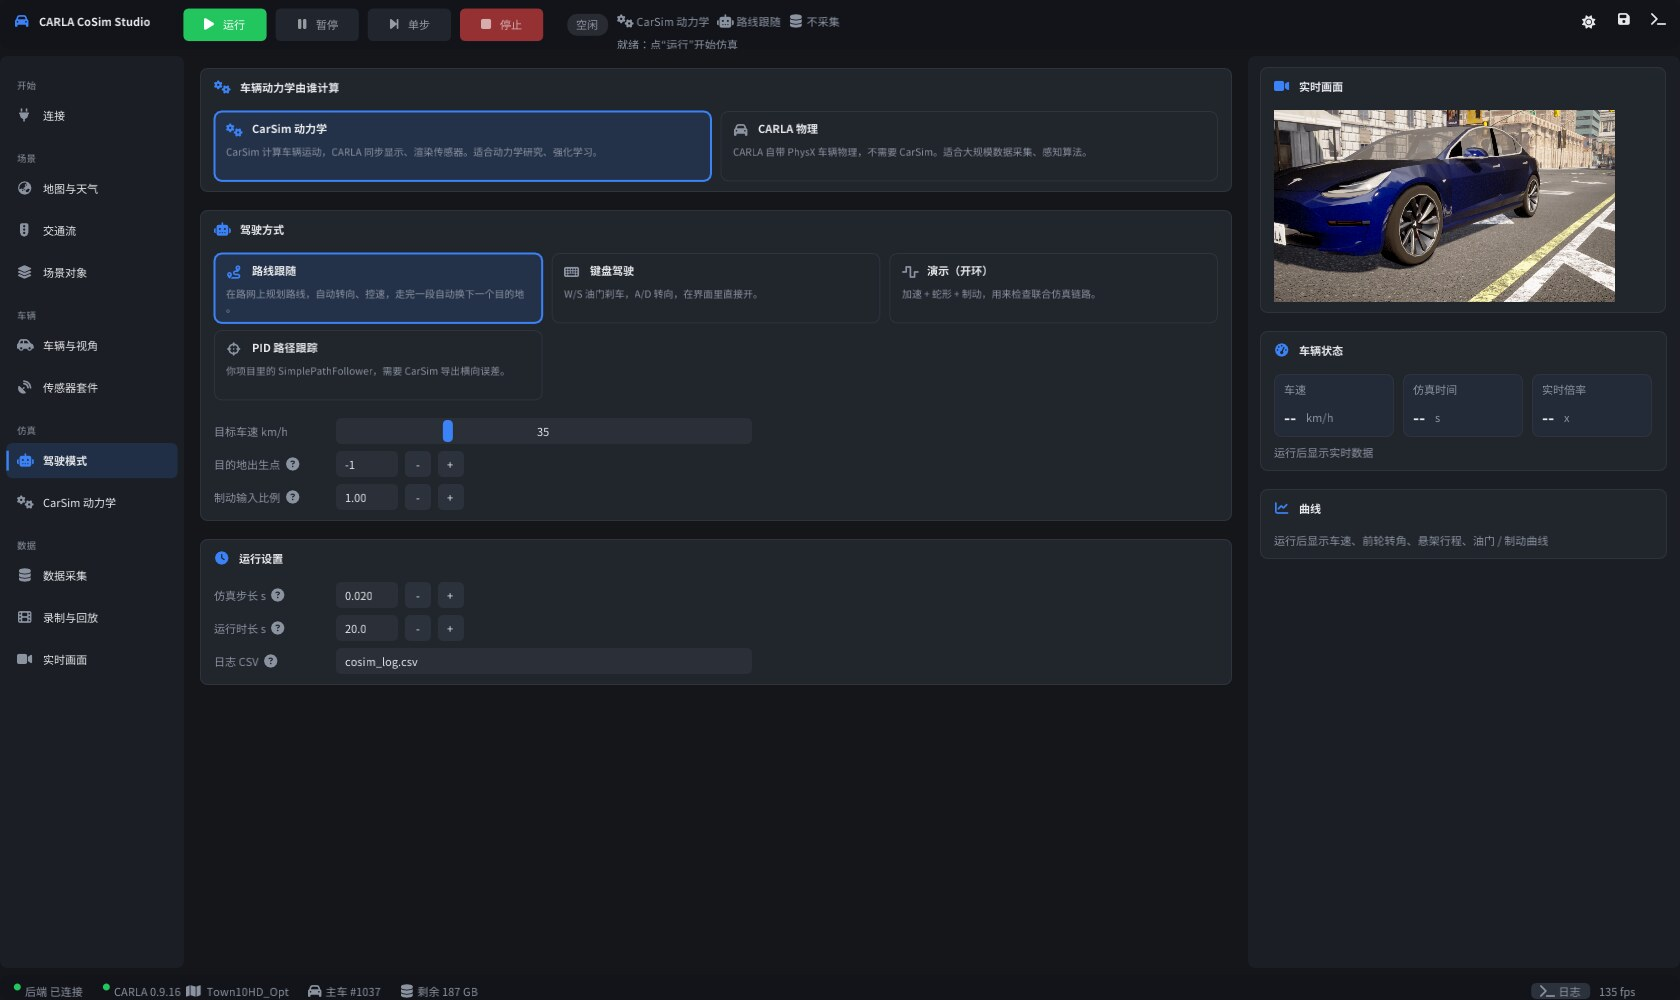
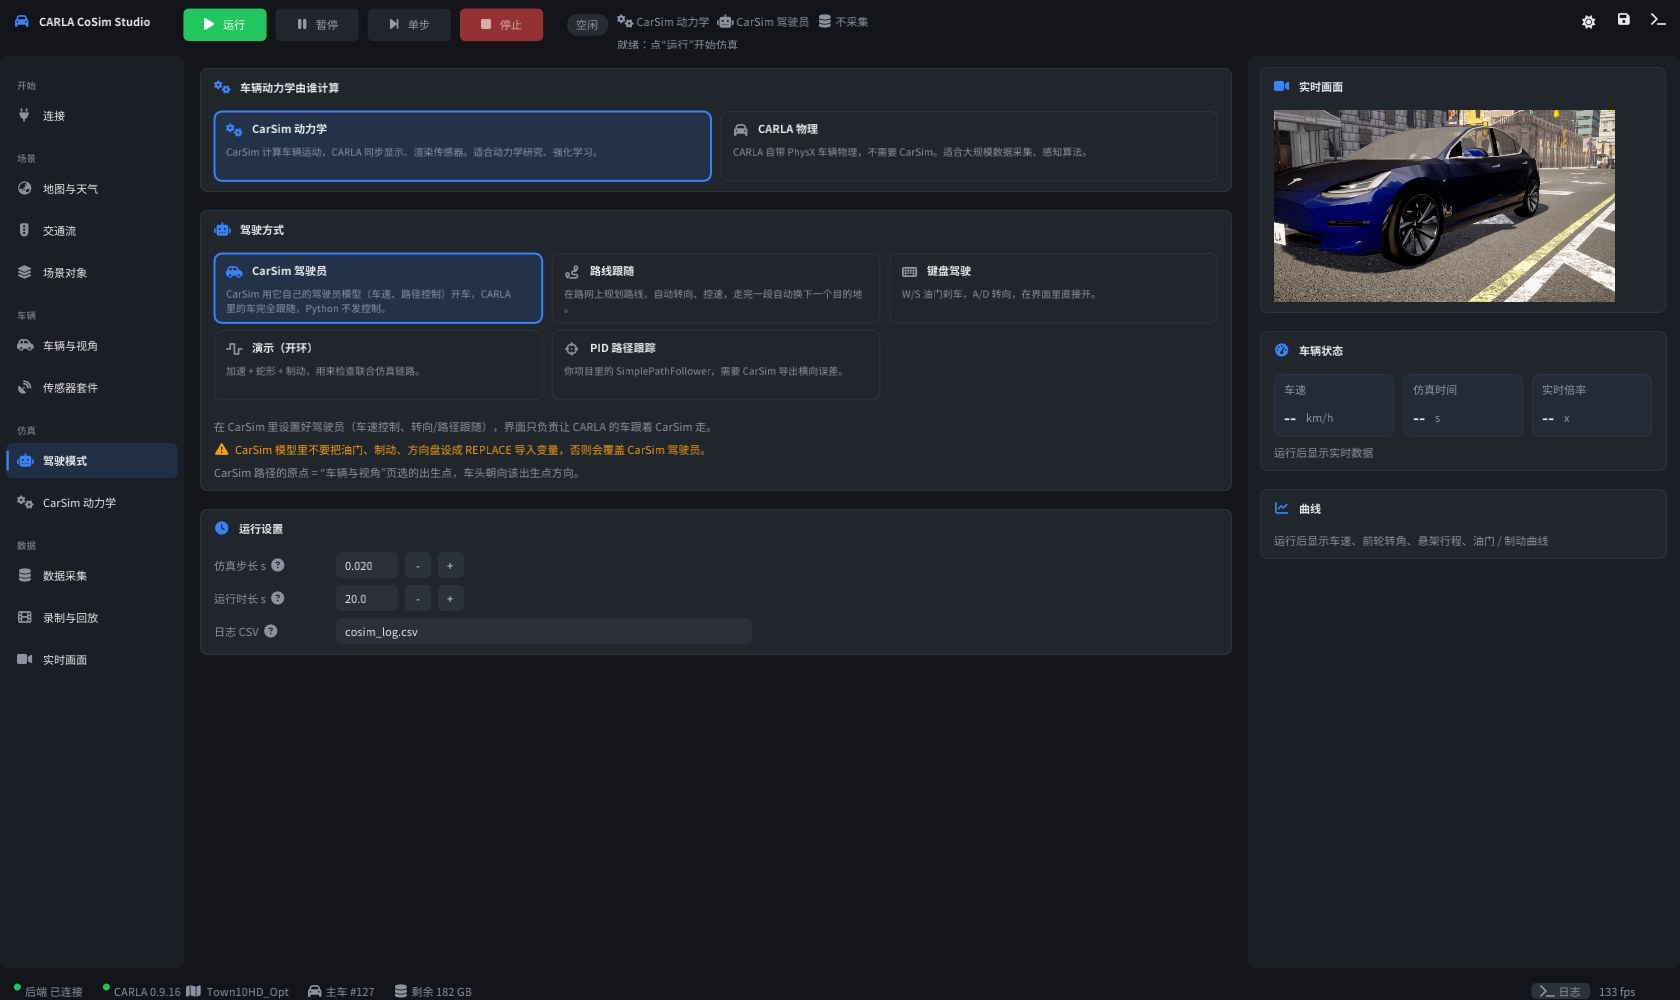
Add "CarSim driver" mode: CarSim drives with its own driver model, CARLA follows
Python writes no imports in this mode (runs without imports are allowed),
the GUI shows the inputs CarSim chose from its exports. Also fixes a stale
sensor id in test_backend after the per-run ego respawn.

diff --git a/carsim_carla_bridge/session.py b/carsim_carla_bridge/session.py
@@ -35,7 +35,30 @@ def make_env(d):
         raise ValueError("CarSim .sim file not set (carsim.sim_path)")
     sys.path.insert(0, os.path.abspath(c["repo_path"]))
     from carsim_env import CarSimEnv
-    return CarSimEnv(c["sim_path"])
+    env = CarSimEnv(c["sim_path"])
+    if d["run"]["driver"] == "carsim":
+        self_driven(env)
+    return env
+
+
+def self_driven(env):
+    """Let CarSim's own driver model (speed / path control set up in the
+    CarSim GUI) drive: the run may have no imports at all, and Python never
+    writes the import array. Wraps the instance, python_carsim_env is untouched."""
+    read = env.solver.read_configuration
+
+    def read_configuration(path):
+        cfg = read(path)
+        if cfg is not None:
+            env.declared_imports = int(cfg.get("n_import", 0))
+            if env.declared_imports <= 0:
+                cfg["n_import"] = 1   # spare slot for CarSimEnv's buffers; VS reads no imports
+        return cfg
+
+    write = env._write_action
+    env.solver.read_configuration = read_configuration
+    env._write_action = lambda action: None if action is None else write(action)
+    return env
 
 
 def make_driver(d, ex):
@@ -96,7 +119,9 @@ class CoSimSession:
         drv = d["run"]["driver"]
         self.command_driver = None
         self._speed = 0.0
-        if drv in ("route", "manual"):
+        if drv == "carsim":
+            self.driver = lambda obs, t: None     # CarSim drives itself
+        elif drv in ("route", "manual"):
             dr = d["drive"]
             if drv == "route":
                 dest = int(dr.get("destination_index", -1))
@@ -130,6 +155,7 @@ class CoSimSession:
                                 "carla_x", "carla_y", "carla_yaw", "steer_fl", "steer_fr", "speed_carla"])
         self._wall0 = time.perf_counter()
         return {"external_api": self.sync.external_api,
+                "declared_imports": getattr(self.env, "declared_imports", None),
                 "reference_point": [round(float(x), 3) for x in self.sync.ref_local],
                 "t_step": t_step, "inner_steps": self.inner, "clock_warning": self.clock_warning}
 
@@ -155,6 +181,8 @@ class CoSimSession:
         env, frame_dt = self.env, self.d["sync"]["frame_dt"]
         action = self.driver(self.obs, env.t_current)
         self.obs, _, done, info = env.control_step(action, self.inner)
+        if action is None:
+            action = self._carsim_inputs()
         if info.get("error"):
             raise RuntimeError("CarSim error: %s" % info["error"])
         state = self.sync.sync(self.obs, env.t_current, frame_dt)
@@ -193,6 +221,14 @@ class CoSimSession:
             "dynamics": "CarSim",
             "done": self.done,
         }
+
+    def _carsim_inputs(self):
+        """Driver inputs CarSim chose itself, read back from the exports."""
+        ex = self.sync.ex
+        scale = float(self.d["drive"].get("brake_scale", 1.0)) or 1.0
+        return [float(ex.raw(self.obs, "Throttle")) if ex.has("Throttle") else 0.0,
+                float(ex.raw(self.obs, "Pbk_Con")) / scale if ex.has("Pbk_Con") else 0.0,
+                float(ex.angle(self.obs, "Steer_SW")) if ex.has("Steer_SW") else 0.0]
 
     def carsim_state(self):
         """CarSim exports of the current step, for the data collector."""

diff --git a/carsim_carla_bridge/tests/test_self_driven.py b/carsim_carla_bridge/tests/test_self_driven.py
@@ -1,0 +1,65 @@
+"""Offline check of the "CarSim driver" mode wrapper (no CarSim, no CARLA).
+
+    python tests/test_self_driven.py
+"""
+import os
+import sys
+
+HERE = os.path.dirname(os.path.abspath(__file__))
+sys.path.insert(0, os.path.dirname(HERE))
+sys.path.insert(0, os.path.join(os.path.dirname(HERE), "..", "python_carsim_env"))
+
+
+class FakeSolver:
+    """VS solver whose run declares no imports (CarSim drives itself)."""
+    def __init__(self, n_import):
+        self.n_import, self.imports_seen = n_import, []
+
+    def read_configuration(self, path):
+        return {"n_import": self.n_import, "n_export": 2, "t_start": 0.0, "t_stop": 1.0, "t_step": 0.001}
+
+    def copy_export_vars_into(self, arr, n, return_list=False):
+        pass
+
+    def integrate_io_inplace(self, t, imp, exp, n):
+        self.imports_seen.append(list(imp))
+        return 0
+
+    def terminate_run(self, t):
+        pass
+
+
+def make(n_import):
+    from carsim_env import CarSimEnv
+    from session import self_driven
+    env = CarSimEnv.__new__(CarSimEnv)      # skip DLL loading
+    env.sim_path, env.solver = "x.sim", FakeSolver(n_import)
+    env.initialized, env.done, env.import_vars, env.export_vars = False, True, [], []
+    return self_driven(env)
+
+
+def main():
+    ok = True
+    env = make(0)
+    env.reset()                             # stock CarSimEnv refuses n_import == 0
+    env.control_step(None, 5)
+    ok &= env.declared_imports == 0 and len(env.solver.imports_seen) == 5
+    print(("PASS" if ok else "FAIL"), "run without imports steps, declared_imports =", env.declared_imports)
+
+    env = make(3)
+    env.reset()
+    env.import_np[:] = [7.0, 8.0, 9.0]      # whatever is there is left alone
+    env.control_step(None, 1)
+    good = env.solver.imports_seen[-1] == [7.0, 8.0, 9.0] and env.declared_imports == 3
+    print(("PASS" if good else "FAIL"), "None action never writes the imports")
+    ok &= good
+    env.control_step([0.5, 0.0, 10.0], 1)
+    good = env.solver.imports_seen[-1] == [0.5, 0.0, 10.0]
+    print(("PASS" if good else "FAIL"), "explicit actions still written")
+    ok &= good
+    print("ALL SELF-DRIVEN TESTS PASSED" if ok else "SOME TESTS FAILED")
+    sys.exit(0 if ok else 1)
+
+
+if __name__ == "__main__":
+    main()

diff --git a/cosim_gui/src/panels.cpp b/cosim_gui/src/panels.cpp
@@ -455,6 +455,7 @@ void App::DrawPanelDrive() {
   ui::BeginCard(ICON_FA_ROBOT, "驾驶方式");
   struct D { const char* id; const char* icon; const char* title; const char* desc; bool cosim, carla; };
   static const D kD[] = {
+      {"carsim", ICON_FA_CAR_SIDE, "CarSim 驾驶员", "CarSim 用它自己的驾驶员模型（车速、路径控制）开车，CARLA 里的车完全跟随，Python 不发控制。", true, false},
       {"route", ICON_FA_ROUTE, "路线跟随", "在路网上规划路线，自动转向、控速，走完一段自动换下一个目的地。", true, true},
       {"autopilot", ICON_FA_TRAFFIC_LIGHT, "CARLA 自动驾驶", "交通管理器驾驶：遵守信号灯、跟车、变道。", false, true},
       {"manual", ICON_FA_KEYBOARD, "键盘驾驶", "W/S 油门刹车，A/D 转向，在界面里直接开。", true, true},
@@ -502,7 +503,12 @@ void App::DrawPanelDrive() {
     ui::Row("目标车速 km/h", nullptr, fs * 8);
     EditDouble(pid, "target_speed", 5, "%.0f", 0, 300);
   }
-  if (cosim && cur != "demo" && cur != "pid") {
+  if (cosim && cur == "carsim") {
+    ImGui::TextColored(p.text_dim, "在 CarSim 里设置好驾驶员（车速控制、转向/路径跟随），界面只负责让 CARLA 的车跟着 CarSim 走。");
+    ImGui::TextColored(p.warning, ICON_FA_TRIANGLE_EXCLAMATION "  CarSim 模型里不要把油门、制动、方向盘设成 REPLACE 导入变量，否则会覆盖 CarSim 驾驶员。");
+    ImGui::TextColored(p.text_dim, "CarSim 路径的原点 = “车辆与视角”页选的出生点，车头朝向该出生点方向。");
+  }
+  if (cosim && cur != "demo" && cur != "pid" && cur != "carsim") {
     float b = dr.value("brake_scale", 1.0f);
     ui::Row("制动输入比例", "0..1 的制动指令乘以这个系数再送给 CarSim（例如 CarSim 用制动压力 MPa 时设为 10）", fs * 8);
     if (ImGui::InputFloat("##bscale", &b, 0.5f, 1.0f, "%.2f")) dr["brake_scale"] = std::max(0.0f, b);

diff --git a/carsim_carla_bridge/tests/test_features.py b/carsim_carla_bridge/tests/test_features.py
@@ -98,6 +98,28 @@ def main():
         check("CarSim route follower drives", moved > 25 and tels[-1]["speed_kmh"] > 15,
               "moved %.0f m, %.1f km/h, max wheel steer %.1f°" % (moved, tels[-1]["speed_kmh"], steer_used))
 
+        # ---- CarSim's own driver model drives, CARLA follows -------------------
+        r = json.loads(json.dumps(cfg))
+        r["carsim"]["mock"] = True
+        r["drive"].update({"dynamics": "cosim"})
+        r["run"]["driver"] = "carsim"
+        r["sync"]["duration"] = 8.0
+        r["sync"]["frame_dt"] = 0.02
+        c.events.clear()
+        c.call("cosim_start", config=r)
+        tels = []
+        while True:
+            e = c.wait_event(lambda e: e.get("event") in ("telemetry", "cosim_state"), 180)
+            c.events.remove(e)
+            if e["event"] == "cosim_state" and e["state"] in ("finished", "error"):
+                break
+            if e["event"] == "telemetry":
+                tels.append(e["data"])
+        moved = math.dist(tels[0]["location"][:2], tels[-1]["location"][:2])
+        check("CarSim driver mode: CARLA car follows CarSim", moved > 20 and max(t["action"][0] for t in tels) > 0.1
+              and max(abs(t["action"][2]) for t in tels) > 10,
+              "moved %.0f m, %.1f km/h, inputs read back from CarSim exports" % (moved, tels[-1]["speed_kmh"]))
+
         # ---- manual keyboard control in CARLA physics --------------------------
         r = json.loads(json.dumps(cfg))
         r["drive"].update({"dynamics": "carla", "carla_driver": "manual"})

diff --git a/carsim_carla_bridge/backend_server.py b/carsim_carla_bridge/backend_server.py
@@ -632,6 +632,9 @@ class Backend:
             self._log("联合仿真开始：%s，参考点 %s，每帧 %d 个 CarSim 步，驾驶：%s" % (
                 "改版 CARLA 接口" if info["external_api"] else "原版兼容模式",
                 info["reference_point"], info["inner_steps"], d["run"]["driver"]))
+            if d["run"]["driver"] == "carsim" and info.get("declared_imports"):
+                self._log("CarSim 驾驶员模式：模型声明了 %d 个导入变量，Python 不写它们；若是 REPLACE 模式会一直是 0，"
+                          "会覆盖 CarSim 自己的驾驶员（车不动或不转向），请在 CarSim 里删掉导入或改成 ADD" % info["declared_imports"], "warn")
             if info["clock_warning"]:
                 self._log("frame_dt 不是 CarSim t_step 的整数倍，两边时钟会漂移", "warn")
         else:

diff --git a/carsim_carla_bridge/mock_carsim.py b/carsim_carla_bridge/mock_carsim.py
@@ -37,7 +37,16 @@ class MockCarSimEnv:
         self.done = False
         return self._exports()
 
+    def own_driver(self):
+        """Stands in for CarSim's built-in driver model (action None): hold
+        ~40 km/h and weave gently, like a CarSim procedure would."""
+        throttle = max(0.0, min(1.0, 0.1 * (40.0 / 3.6 - self.v)))
+        steer_sw = 0.0 if self.t_current < 4.0 else 45.0 * math.sin(2 * math.pi * 0.1 * (self.t_current - 4.0))
+        return [throttle, 0.0, steer_sw]
+
     def control_step(self, action, inner_steps):
+        if action is None:
+            action = self.own_driver()
         throttle, brake, steer_sw = (list(action) + [0.0, 0.0, 0.0])[:3]
         self.throttle, self.steer_sw = throttle, steer_sw
         delta = math.radians(steer_sw / self.STEER_RATIO)  # + = left (ISO)

diff --git a/carsim_carla_bridge/settings.py b/carsim_carla_bridge/settings.py
@@ -45,7 +45,7 @@ def default_dict():
                         "speed": _defaults.PID_SPEED,
                         "target_speed": _defaults.PID_TARGET_SPEED}},
         # dynamics: "cosim" = CarSim drives the car, "carla" = CARLA PhysX.
-        # driver: demo | pid (CarSim only) | route | manual | autopilot (CARLA only)
+        # driver: carsim (CarSim's own driver) | demo | pid (CarSim only) | route | manual | autopilot (CARLA only)
         "drive": {"dynamics": "cosim", "carla_driver": "route", "target_speed_kmh": 40.0,
                   "destination_index": -1, "brake_scale": 1.0,
                   "tm_speed_diff_pct": 0.0, "tm_ignore_lights": False},

diff --git a/carsim_carla_bridge/tests/test_backend.py b/carsim_carla_bridge/tests/test_backend.py
@@ -142,7 +142,9 @@ def main():
 
         actors = c.call("list_actors")
         check("list_actors", any(a["ego"] for a in actors), len(actors))
-        c.call("remove_sensor", id=cam["id"])
+        # Each run respawns the ego and re-adds its sensors, so look the camera up again.
+        cam_id = next(s["id"] for s in c.call("list_sensors") if s["type"] == "rgb")
+        c.call("remove_sensor", id=cam_id)
         check("remove_sensor", len(c.call("list_sensors")) == 1)
         c.call("clear_traffic")
         after = c.call("list_actors", filter="vehicle.*")

diff --git a/carsim_carla_bridge/run_cosim.py b/carsim_carla_bridge/run_cosim.py
@@ -37,7 +37,7 @@ def main():
     ap.add_argument("--duration", type=float, help="simulated seconds")
     ap.add_argument("--spawn-index", type=int, help="CARLA spawn point used as CarSim origin")
     ap.add_argument("--vehicle")
-    ap.add_argument("--driver", choices=("demo", "pid"))
+    ap.add_argument("--driver", choices=("carsim", "demo", "pid"))
     ap.add_argument("--record", help="save chase-camera frames here")
     ap.add_argument("--log")
     ap.add_argument("--no-external-api", action="store_true", help="force the stock-CARLA fallback")

diff --git a/cosim_gui/src/ui_layout.cpp b/cosim_gui/src/ui_layout.cpp
@@ -39,6 +39,7 @@ const char* DriverName(const json& cfg) {
   const json& d = cfg["drive"];
   const bool cosim = d.value("dynamics", std::string("cosim")) == "cosim";
   const std::string v = cosim ? d.value("cosim_driver", std::string("demo")) : d.value("carla_driver", std::string("route"));
+  if (v == "carsim") return "CarSim 驾驶员";
   if (v == "demo") return "演示";
   if (v == "pid") return "PID 跟踪";
   if (v == "route") return "路线跟随";

diff --git a/cosim_gui/src/app.cpp b/cosim_gui/src/app.cpp
@@ -610,7 +610,7 @@ void App::BuildTour() {
       {kPanelTraffic, [this] { traffic_vehicles_ = 12; traffic_walkers_ = 8; SpawnTraffic(); }, idle, "06_traffic"},
       {kPanelDrive, [this] {
          cfg_["drive"]["dynamics"] = "cosim";
-         cfg_["drive"]["cosim_driver"] = "route";
+         cfg_["drive"]["cosim_driver"] = "carsim";
          cfg_["drive"]["target_speed_kmh"] = 35.0;
        }, idle, "07_drive"},
       {kPanelCoSim, [this] {

diff --git a/docs/界面操作手册.md b/docs/界面操作手册.md
@@ -149,11 +149,18 @@
 
 | 方式 | CarSim 下可用 | CARLA 物理下可用 | 说明 |
 |---|---|---|---|
+| **CarSim 驾驶员** | ✓ | | **CarSim 自己开车，CARLA 的车跟着动。** 用 CarSim 里设置的驾驶员模型（车速控制、转向 / 路径跟随、Procedure），Python 不发任何控制 |
 | 路线跟随 | ✓ | ✓ | 在路网上规划到目的地的路线，纯跟踪转向加 PI 控速，弯道自动减速；走完换下一个目的地 |
 | CARLA 自动驾驶 | | ✓ | 交通管理器驾驶：遵守信号灯、跟车、变道 |
 | 键盘驾驶 | ✓ | ✓ | W / ↑ 油门，S / ↓ 制动，A、D / ←、→ 转向；输入会平滑变化 |
 | 演示（开环） | ✓ | | 加速 + 蛇形 + 制动，用来检查联合仿真链路 |
 | PID 路径跟踪 | ✓ | | python_carsim_env 里的 SimplePathFollower，需要 CarSim 导出横向误差 |
+
+**CarSim 驾驶员模式要点**
+- 在 CarSim 里设置好驾驶员：车速控制（恒速 / 车速曲线）、转向控制（驾驶员模型跟随路径，或开环方向盘曲线），和单独在 CarSim 里运行时一样。
+- 油门、制动、方向盘**不要**设成 REPLACE 模式的导入变量，否则会覆盖 CarSim 驾驶员（Python 不写它们，会一直是 0，车不动）。可以删掉这些导入，或者改成 ADD 模式。没有任何导入变量的 .sim 也能用。
+- 运行时界面上的油门 / 制动 / 转向条显示的是 CarSim 自己的输入，需要导出 `Throttle`、`Steer_SW`，制动要导出 `Pbk_Con`（主缸压力，按“制动输入比例”换算）。
+- CarSim 路径的原点 = “车辆与视角”页选的出生点，X 轴朝出生点的车头方向。CarSim 路径和 CARLA 地图的道路是两套东西：要让车沿着 CARLA 的路走，CarSim 里的路径要按这张地图的道路来建，否则车可能开出路面。
 
 参数：
 - 目标车速（路线跟随）；目的地出生点（-1 = 随机选择远处目的地）。
@@ -271,7 +278,7 @@ boxes = json.load(open(f"{root}/labels/000123.json"))["objects"]
 连接 → 车辆与视角（选车、生成主车）→ 驾驶模式（CarSim 动力学 + 路线跟随）→ CarSim 动力学（勾选“模拟 CarSim”）→ 实时画面（打开画面）→ 点顶部“运行”。
 
 **B. 接入真实 CarSim**
-在 CarSim 里配置好导出变量 → CarSim 动力学页：填 .sim 文件、python_carsim_env 目录，按 .sim 里的顺序填导出变量（看到绿色提示）→ 驾驶模式选路线跟随、键盘驾驶或 PID → 运行。先打开“日志 CSV”，检查 CarSim 与 CARLA 的位姿误差是否为 0。
+在 CarSim 里配置好导出变量 → CarSim 动力学页：填 .sim 文件、python_carsim_env 目录，按 .sim 里的顺序填导出变量（看到绿色提示）→ 驾驶模式选 **CarSim 驾驶员**（CarSim 自己开）、路线跟随、键盘驾驶或 PID → 运行。先打开“日志 CSV”，检查 CarSim 与 CARLA 的位姿误差是否为 0。
 
 **C. 采集一个小数据集**
 地图与天气（选地图和天气）→ 交通流（例如 30 辆车、20 个行人）→ 车辆与视角（选车）→ 传感器套件（加载 nuScenes 预设）→ 驾驶模式（CARLA 物理 + CARLA 自动驾驶）→ 数据采集（打开、10 Hz、最多 200 帧）→ 运行。
